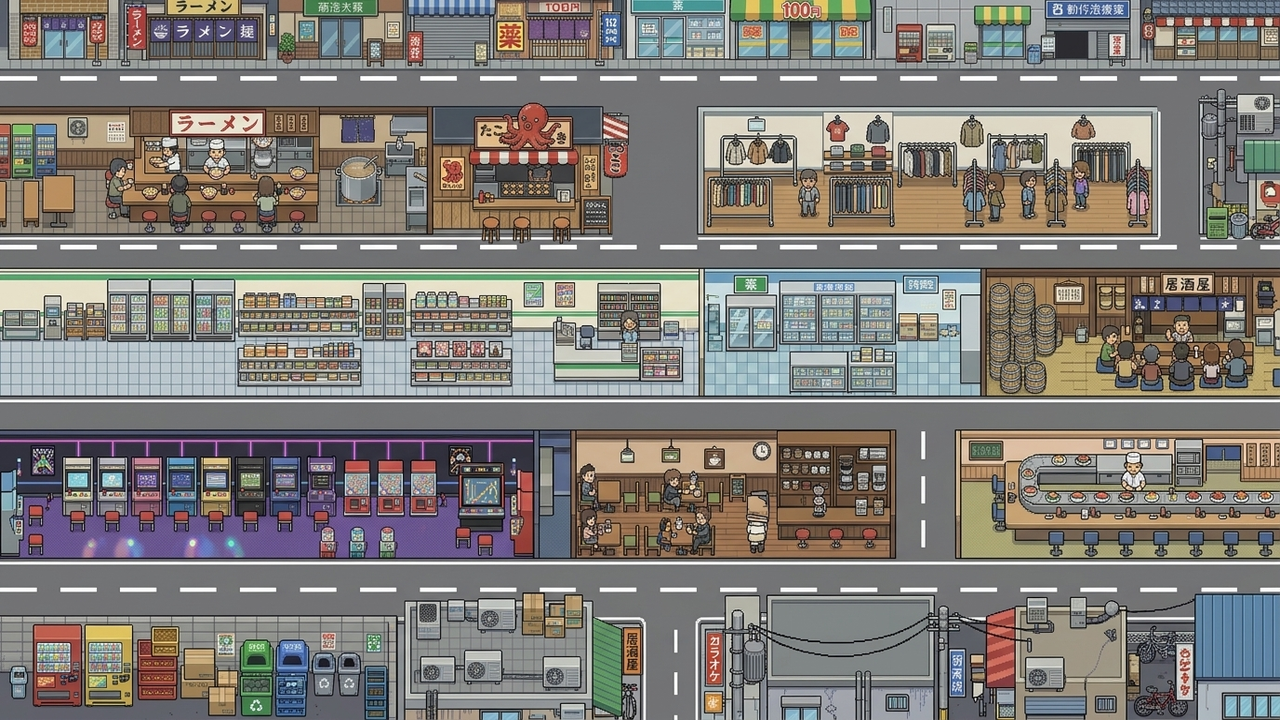
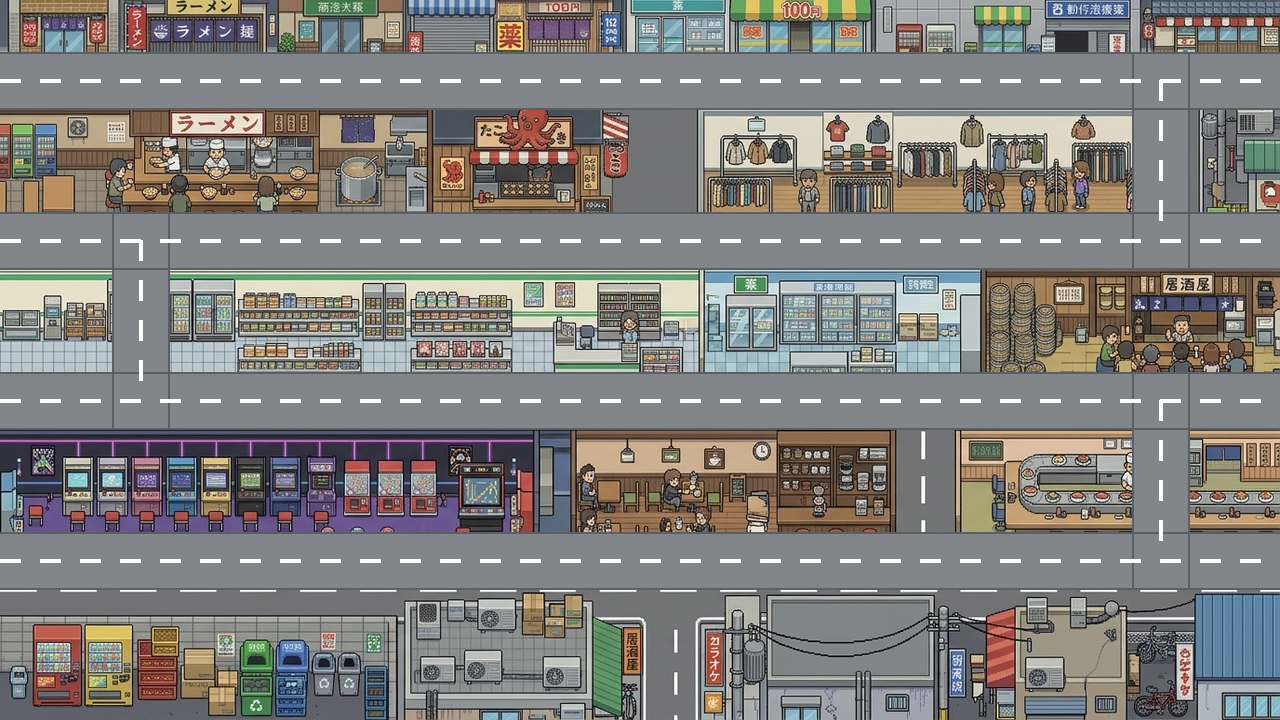
fix: align enemy sprite feet to road path, resize boss/brute
- Add per-enemy foot/head pixel constants (FOOT_PIX, HEAD_PIX) measured
  from actual sprite alpha bounds
- Compute spriteYOff so character feet land exactly on pos.y (road center)
  instead of being centered on it (which sank characters into the road)
- barYOff now equals char_pixel_height × scale + 5 (HP bar above head)
- boss size 52→32 (scale 1.3→0.8): eliminates 53px head clip on top lane
- brute size 36→28 (scale 0.9→0.7): eliminates 15px head clip on top lane

Changed region(s): [[0.0, 0.0611, 1.0, 0.825]]

diff --git a/src/scenes/GameScene.js b/src/scenes/GameScene.js
@@ -296,10 +296,20 @@ export default class GameScene extends Phaser.Scene {
     const hasSprite = SPRITE_TYPES.has(type);
     let body, face;
     const spriteScale = def.size / 40;
-    const barYOff = hasSprite ? (128 * spriteScale) / 2 + 5 : def.size / 2 + 9;
+
+    // 128pxスプライト内での頭・足元ピクセル位置（アルファ境界実測値）
+    const FOOT_PIX = { grunt: 113, runner: 104, brute: 127, boss: 115, subashikko: 114, zombie: 114 };
+    const HEAD_PIX = { grunt: 33,  runner: 34,  brute: 22,  boss: 13,  subashikko: 67,  zombie: 39  };
+    const SPRITE_H = 128;
+    const footPix = FOOT_PIX[type] ?? 114;
+    const headPix = HEAD_PIX[type] ?? 30;
+    // 足元をpath上のpos.yに揃えるオフセット（上方向が負）
+    const spriteYOff = hasSprite ? -((footPix - SPRITE_H / 2) * spriteScale) : 0;
+    // HPバーはキャラ頭の5px上
+    const barYOff = hasSprite ? (footPix - headPix) * spriteScale + 5 : def.size / 2 + 9;
 
     if (hasSprite) {
-      body = this.add.image(pos.x, pos.y, `${type}_walk_1`)
+      body = this.add.image(pos.x, pos.y + spriteYOff, `${type}_walk_1`)
         .setScale(spriteScale).setDepth(DEPTH.enemy);
       face = null;
     } else {
@@ -317,7 +327,7 @@ export default class GameScene extends Phaser.Scene {
     this.enemies.push({
       type, def, speed: def.speed, dist: startDist, hp: def.hp, maxHp: def.hp,
       x: pos.x, y: pos.y, alive: true, barW, body, face, hpBg, hpFill,
-      hasSprite, animTimer: 0, animFrame: 0, barYOff,
+      hasSprite, animTimer: 0, animFrame: 0, barYOff, spriteYOff,
     });
   }
 
@@ -766,7 +776,7 @@ export default class GameScene extends Phaser.Scene {
       }
       const pos = posAt(this.path, e.dist);
       e.x = pos.x; e.y = pos.y;
-      e.body.setPosition(pos.x, pos.y);
+      e.body.setPosition(pos.x, pos.y + (e.spriteYOff ?? 0));
       if (e.hasSprite) {
         // 歩きアニメ（8fps）
         e.animTimer += dt * 1000;

diff --git a/src/data/content.js b/src/data/content.js
@@ -7,8 +7,8 @@
 export const ENEMIES = {
   grunt:      { name: 'チビおじ',       hp: 10,  speed: 88,  reward: 5,  leak: 1, size: 26, color: 0x5b8def },
   runner:     { name: 'いそぎおじ',     hp: 6,   speed: 185, reward: 4,  leak: 1, size: 20, color: 0x46c98b },
-  brute:      { name: 'ごりおじ',       hp: 50,  speed: 54,  reward: 16, leak: 3, size: 36, color: 0xc56b3a },
-  boss:       { name: 'ボスおじ',       hp: 400, speed: 40,  reward: 95, leak: 8, size: 52, color: 0xb05ad0 },
+  brute:      { name: 'ごりおじ',       hp: 50,  speed: 54,  reward: 16, leak: 3, size: 28, color: 0xc56b3a },
+  boss:       { name: 'ボスおじ',       hp: 400, speed: 40,  reward: 95, leak: 8, size: 32, color: 0xb05ad0 },
   subashikko: { name: 'すばしっこおじ', hp: 3,   speed: 270, reward: 3,  leak: 1, size: 18, color: 0x3de87a },
   zombie:     { name: 'ゾンビおじ',     hp: 30,  speed: 65,  reward: 10, leak: 2, size: 32, color: 0x7fbf4d, splits: true },
 };